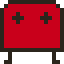
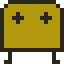
yellow feature

diff --git a/my-phaser-game/src/scenes/Game.js b/my-phaser-game/src/scenes/Game.js
@@ -95,7 +95,7 @@ export class Game extends Scene {
 
     this.dead = false
 
-    this.level = 11 - 1 //start here xyzzy
+    this.level = 7 - 1 //start here xyzzy
     this.gotoLevel(this.level)
 
     if (developerMode) {
@@ -155,7 +155,7 @@ export class Game extends Scene {
   gameOver() {
     if (this.dead) return
     this.dead = true
-    this.player.setTexture('dead')
+    this.player.setTexture('dead' + this.colorScheme)
     this.player.setVelocityY(-200)
     this.deadCounter = 100
   }
@@ -264,7 +264,7 @@ export class Game extends Scene {
   }
 
   createLevelEnd(x, y) {
-    this.createEntity("levelEnd", x, y, "flag", () => {
+    this.createEntity("levelEnd", x, y, "flag" + this.colorScheme, () => {
 
     }, () => {}, this.levelEndGroup)
   }
@@ -275,7 +275,7 @@ export class Game extends Scene {
             self.activateCounter = 24
             if (self.activated) return
             self.activated = true
-            self.sprite.setTexture("switchOff")
+            self.sprite.setTexture("switchOff" + this.colorScheme)
             const laser = this.getEntityByName("laser-" + name)
             if (!laser) return
             self.laserPosX = laser.sprite.x
@@ -306,9 +306,9 @@ export class Game extends Scene {
 
   updatePlayerSprite() {
     if (this.playerDir === -1) {
-        this.player.setTexture("player-left")
+        this.player.setTexture("player-left" + this.colorScheme)
     } else {
-        this.player.setTexture("player-right")
+        this.player.setTexture("player-right" + this.colorScheme)
     }
   }
 
@@ -372,10 +372,22 @@ export class Game extends Scene {
     this.updatePlayerShape()
   }
 
+  updateColorScheme(color) {
+    if (!color) {
+        color = ""
+    } else {
+        color = "-" + color
+    }
+    this.colorScheme = color
+  }
+
   loadLevel(levelIndex) {
     const level = Levels[levelIndex]
     this.window1.setVisible(!!level.showWindow1)
     this.window2.setVisible(!!level.showWindow2)
+
+    this.updateColorScheme(level.color)
+    this.player.setTexture("player-right" + this.colorScheme)
 
     const tiles = level.tiles
     const abst = 64
@@ -512,7 +524,7 @@ export class Game extends Scene {
         this.deadCounter--
         if (this.deadCounter <= 0) {
             this.dead = false
-            this.player.setTexture('player')
+            this.player.setTexture('player' + this.colorScheme)
             this.restartLevel()
         }
     }

diff --git a/my-phaser-game/src/scenes/Preloader.js b/my-phaser-game/src/scenes/Preloader.js
@@ -34,8 +34,7 @@ export class Preloader extends Scene
 
         this.load.image('ground', 'block5.png');
         this.load.image('ground2', 'block6.png');
-        this.load.image('player-right', 'du.png');
-        this.load.image('player-left', 'du-left.png');
+
         this.load.image('bg', 'bg.png');
         this.load.image('window', 'window.png');
 
@@ -44,13 +43,26 @@ export class Preloader extends Scene
         this.load.image('fat', 'fat.png');
         this.load.image('box', 'box.png');
         this.load.image('spike', 'spike.png');
-        this.load.image('dead', 'dead2.png');
+
         this.load.image('laser', 'laser.png');
         this.load.image('laser2', 'laser2.png');
         this.load.image('switch', 'switch-blue.png');
-        this.load.image('switchOff', 'switch-red.png');
-        this.load.image('flag', 'exit.png');
         this.load.image('breakBlock', 'block-breaki.png');
+
+        this.load.image('player-right', 'du.png');
+        this.load.image('player-left', 'du-left.png');
+        this.load.image('dead', 'dead.png');
+        this.load.image('flag', 'exit.png');
+        this.load.image('switchOff', 'switch-red.png');
+
+        this.load.image('player-right-yellow', 'du2.png');
+        this.load.image('player-left-yellow', 'du-left2.png');
+        this.load.image('dead-yellow', 'dead2.png');
+        this.load.image('flag-yellow', 'exit2.png');
+        this.load.image('switchOff-yellow', 'switch-yellow.png');
+
+
+
     }
 
     create ()

diff --git a/my-phaser-game/src/scenes/Levels.js b/my-phaser-game/src/scenes/Levels.js
@@ -48,6 +48,7 @@ const levels = [
       [w,   _,   _,   _,   _,   _,   _,   _,   _,   _,   S,   _,   _,   w,   _,   w,   w],  
       [w,   _,   Ä,   _,   _,   _,   _,   _,   _,   _,   _,   _,   w,   w,   Ü,   w,   w],  
     ],
+    color: "yellow",
   },  
 
   {
@@ -160,6 +161,7 @@ const levels = [
       [w,   w,   w,   _,   X,   _,   _,   _,   Y,   _,   _,   _,   _,   w,   w,   w,   w],  
     ],
     showWindow2: true,
+    color: "yellow",
   },  
 
   {
